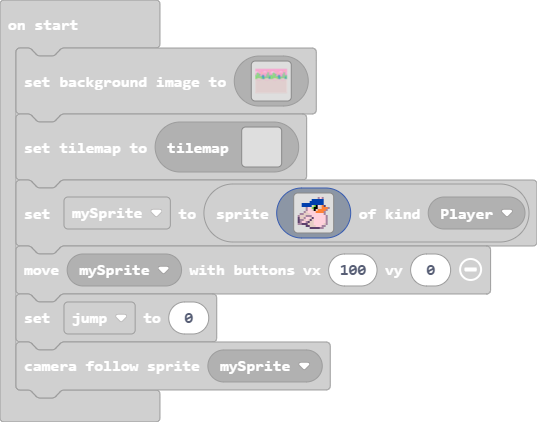
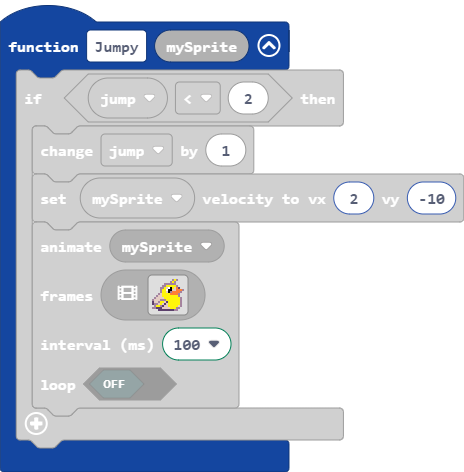
Velocity

diff --git a/main.ts b/main.ts
@@ -1,7 +1,7 @@
 function Jumpy (mySprite: Sprite) {
     if (jump < 2) {
         jump += 1
-        mySprite.setVelocity(-31, -150)
+        mySprite.setVelocity(2, -10)
         animation.runImageAnimation(
         mySprite,
         [img`
@@ -22,7 +22,7 @@ function Jumpy (mySprite: Sprite) {
             b b c c c d d d d 5 5 5 b b . . 
             . . . c c c c c c c c b b . . . 
             `],
-        500,
+        100,
         false
         )
     }
